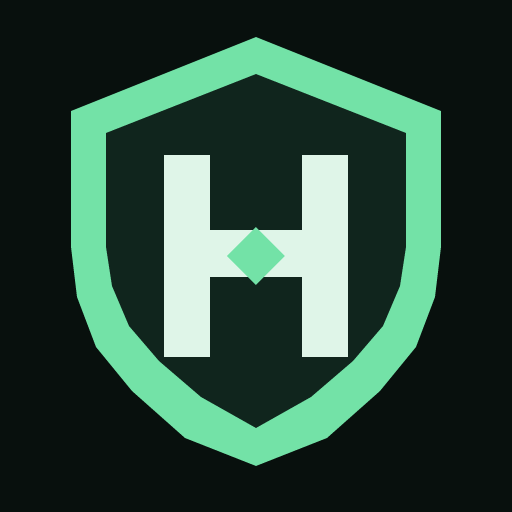
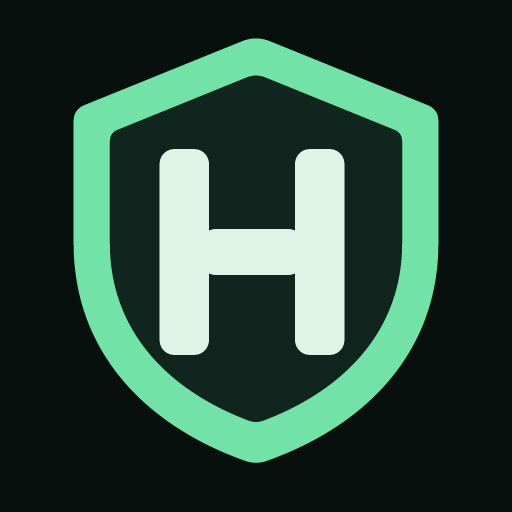
fix: smooth HAVEN brand geometry (#26)

diff --git a/web/src/icons.tsx b/web/src/icons.tsx
@@ -15,7 +15,7 @@ function SvgIcon({ children, className, size = 22 }: IconProps & { children: Rea
 
 export function HavenIcon(props: IconProps) {
   const { className, size = 22 } = props;
-  return <svg className={className} width={size} height={size} viewBox="0 0 24 24" aria-hidden="true" focusable="false"><path d="M12 1.75 20.65 5.2v6.4c0 5.2-3.45 8.55-8.65 10.25C6.8 20.15 3.35 16.8 3.35 11.6V5.2L12 1.75Z" fill="#73e2a7" /><path d="M12 3.45 19.05 6.25v5.35c0 4.2-2.7 6.95-7.05 8.48-4.35-1.53-7.05-4.28-7.05-8.48V6.25L12 3.45Z" fill="#10251d" /><path d="M7.7 7.25h2.15v3.55h4.3V7.25h2.15v9.5h-2.15V13h-4.3v3.75H7.7v-9.5Z" fill="#dff5e8" /><path d="m12 10.65 1.35 1.35L12 13.35 10.65 12 12 10.65Z" fill="#73e2a7" /></svg>;
+  return <svg className={className} width={size} height={size} viewBox="0 0 24 24" aria-hidden="true" focusable="false"><path d="M11.35 1.93Q12 1.67 12.65 1.93l7.38 2.99q.52.21.52.77v5.72c0 4.83-3.08 8.41-8 10.18q-.55.2-1.1 0c-4.92-1.77-8-5.35-8-10.18V5.69q0-.56.52-.77l7.38-2.99Z" fill="#73e2a7" /><path d="M11.56 3.63q.44-.18.88 0l6.04 2.45q.37.15.37.55v4.78c0 3.83-2.4 6.74-6.48 8.3q-.37.14-.74 0c-4.08-1.56-6.48-4.47-6.48-8.3V6.63q0-.4.37-.55l6.04-2.45Z" fill="#10251d" /><rect x="7.6" y="7.1" width="2.35" height="9.8" rx="0.7" fill="#dff5e8" /><rect x="14.05" y="7.1" width="2.35" height="9.8" rx="0.7" fill="#dff5e8" /><rect x="9.25" y="10.9" width="5.5" height="2.2" rx="1.1" fill="#dff5e8" /></svg>;
 }
 
 export function DefenderIcon(props: IconProps) {

diff --git a/web/src/pwa-contract.test.ts b/web/src/pwa-contract.test.ts
@@ -23,15 +23,19 @@ describe("installable application contract", () => {
 	});
 
 	it("keeps the normal mark transparent and isolates the opaque maskable tile", () => {
-		expect(standardIcon).not.toContain("<rect");
+		expect(standardIcon).not.toContain('<rect width="24" height="24"');
 		expect(standardIcon).toContain('fill="#10251d"');
 		expect(maskableIcon).toContain('<rect width="24" height="24" fill="#08100d"/>');
 		const canonicalPaths = Array.from(standardIcon.matchAll(/<path d="([^"]+)"/g), (match) => match[1]);
 		const maskablePaths = Array.from(maskableIcon.matchAll(/<path d="([^"]+)"/g), (match) => match[1]);
-		expect(canonicalPaths).toHaveLength(4);
+		const canonicalRects = Array.from(standardIcon.matchAll(/<rect ([^>]+?)\/>/g), (match) => match[1]);
+		const maskableRects = Array.from(maskableIcon.matchAll(/<rect ([^>]+?)\/>/g), (match) => match[1]).slice(1);
+		expect(canonicalPaths).toHaveLength(2);
+		expect(canonicalRects).toHaveLength(3);
 		expect(maskablePaths).toEqual(canonicalPaths);
+		expect(maskableRects).toEqual(canonicalRects);
 		for (const path of canonicalPaths) expect(iconComponents).toContain(`d="${path}"`);
-		expect(standardIcon).toContain('d="m12 10.65 1.35 1.35L12 13.35 10.65 12 12 10.65Z" fill="#73e2a7"');
+		for (const rectangle of canonicalRects) expect(iconComponents).toContain(rectangle);
 	});
 
 	it("advertises the manifest without adding an authenticated-page cache", () => {

diff --git a/web/src/account-notebook.test.tsx b/web/src/account-notebook.test.tsx
@@ -98,7 +98,7 @@ describe("account security notebook", () => {
 	});
 
 	it("keeps official provider navigation outside the isolated Electron client", () => {
-		vi.spyOn(navigator, "userAgent", "get").mockReturnValue("Mozilla/5.0 HAVEN-Desktop/0.25.2 Electron");
+		vi.spyOn(navigator, "userAgent", "get").mockReturnValue("Mozilla/5.0 HAVEN-Desktop/0.25.3 Electron");
 		render(<AccountNotebook profiles={[profile({ sessionStatus: "recognized", sessionChecks: ["devices"] })]} demoMode={false} unlocked busy={false} unlock={vi.fn()} lock={vi.fn()} save={vi.fn()} remove={vi.fn()} />);
 		expect(screen.queryByRole("link", { name: /Review at Google/ })).not.toBeInTheDocument();
 		expect(screen.getByText(/Desktop isolation blocks external navigation/)).toBeInTheDocument();

diff --git a/web/src/desktop-install.test.tsx b/web/src/desktop-install.test.tsx
@@ -23,11 +23,11 @@ describe("desktop installation", () => {
 	});
 
 	it("recognizes the bounded native desktop user-agent marker", () => {
-		userAgent.mockReturnValue("Mozilla/5.0 HAVEN-Desktop/0.25.2 Electron");
-		expect(nativeDesktopVersion()).toBe("0.25.2");
+		userAgent.mockReturnValue("Mozilla/5.0 HAVEN-Desktop/0.25.3 Electron");
+		expect(nativeDesktopVersion()).toBe("0.25.3");
 		expect(isStandaloneApp()).toBe(true);
 		const { result } = renderHook(() => useDesktopInstall());
-		expect(result.current).toMatchObject({ status: "native", nativeVersion: "0.25.2" });
+		expect(result.current).toMatchObject({ status: "native", nativeVersion: "0.25.3" });
 	});
 
 	it("captures one browser install prompt and records acceptance", async () => {

diff --git a/web/src/desktop-shell-contract.test.ts b/web/src/desktop-shell-contract.test.ts
@@ -25,7 +25,7 @@ describe("native desktop shell contract", () => {
 	});
 
 	it("pins dependencies and hardens the packaged desktop boundary", () => {
-		expect(manifest.version).toBe("0.25.2");
+		expect(manifest.version).toBe("0.25.3");
 		expect(manifest.build.files).toContain("build/origin.cjs");
 		expect(manifest.build.files).toContain("build/icon.ico");
 		expect(shell).toContain('path.join(__dirname, "build", "icon.ico")');

diff --git a/web/src/App.test.tsx b/web/src/App.test.tsx
@@ -59,7 +59,7 @@ const fixtures = vi.hoisted(() => {
 		schemaVersion: 1,
 		kind: "hub",
 		status: "ready",
-		version: "0.25.2",
+		version: "0.25.3",
 		revision: "test-revision",
 		generatedAt: "2026-09-05T08:00:00Z",
 		summary: { passing: 2, advisory: 0, failed: 0 },

diff --git a/scripts/generate-app-icons.go b/scripts/generate-app-icons.go
@@ -22,26 +22,8 @@ type renderOptions struct {
 	scale float64
 }
 
-var outerShield = []point{
-	{256, 37}, {441, 111}, {441, 247}, {435, 297}, {416, 347}, {380, 391},
-	{327, 438}, {256, 466}, {185, 438}, {132, 391}, {96, 347}, {77, 297},
-	{71, 247}, {71, 111},
-}
-
-var innerShield = []point{
-	{256, 74}, {406, 133}, {406, 247}, {400, 286}, {383, 326}, {353, 361},
-	{311, 397}, {256, 428}, {201, 397}, {159, 361}, {129, 326}, {112, 286},
-	{106, 247}, {106, 133},
-}
-
-var watchtower = []point{
-	{164, 155}, {210, 155}, {210, 230}, {302, 230}, {302, 155}, {348, 155},
-	{348, 357}, {302, 357}, {302, 277}, {210, 277}, {210, 357}, {164, 357},
-}
-
-var beacon = []point{
-	{256, 227}, {285, 256}, {256, 285}, {227, 256},
-}
+var outerShield = smoothOuterShield()
+var innerShield = smoothInnerShield()
 
 func main() {
 	check := flag.Bool("check", false, "verify committed icons match the deterministic generator")
@@ -118,11 +100,10 @@ func render(size int, options renderOptions) *image.NRGBA {
 					if insidePolygon(point{px, py}, innerShield) {
 						shade = shieldFill
 					}
-					if insidePolygon(point{px, py}, watchtower) {
+					if insideRoundedRect(point{px, py}, 7.6, 7.1, 2.35, 9.8, .7) ||
+						insideRoundedRect(point{px, py}, 14.05, 7.1, 2.35, 9.8, .7) ||
+						insideRoundedRect(point{px, py}, 9.25, 10.9, 5.5, 2.2, 1.1) {
 						shade = pale
-					}
-					if insidePolygon(point{px, py}, beacon) {
-						shade = green
 					}
 					premultiplied[0] += int(shade.R) * int(shade.A)
 					premultiplied[1] += int(shade.G) * int(shade.A)
@@ -201,4 +182,77 @@ func insidePolygon(value point, polygon []point) bool {
 		}
 	}
 	return inside
+}
+
+func iconPoint(x, y float64) point {
+	return point{x * 512 / 24, y * 512 / 24}
+}
+
+func appendQuadratic(values []point, control, end point) []point {
+	start := values[len(values)-1]
+	for step := 1; step <= 24; step++ {
+		t := float64(step) / 24
+		inverse := 1 - t
+		values = append(values, point{
+			x: inverse*inverse*start.x + 2*inverse*t*control.x + t*t*end.x,
+			y: inverse*inverse*start.y + 2*inverse*t*control.y + t*t*end.y,
+		})
+	}
+	return values
+}
+
+func appendCubic(values []point, firstControl, secondControl, end point) []point {
+	start := values[len(values)-1]
+	for step := 1; step <= 48; step++ {
+		t := float64(step) / 48
+		inverse := 1 - t
+		values = append(values, point{
+			x: inverse*inverse*inverse*start.x + 3*inverse*inverse*t*firstControl.x + 3*inverse*t*t*secondControl.x + t*t*t*end.x,
+			y: inverse*inverse*inverse*start.y + 3*inverse*inverse*t*firstControl.y + 3*inverse*t*t*secondControl.y + t*t*t*end.y,
+		})
+	}
+	return values
+}
+
+func smoothOuterShield() []point {
+	values := []point{iconPoint(11.35, 1.93)}
+	values = appendQuadratic(values, iconPoint(12, 1.67), iconPoint(12.65, 1.93))
+	values = append(values, iconPoint(20.03, 4.92))
+	values = appendQuadratic(values, iconPoint(20.55, 5.13), iconPoint(20.55, 5.69))
+	values = append(values, iconPoint(20.55, 11.41))
+	values = appendCubic(values, iconPoint(20.55, 16.24), iconPoint(17.47, 19.82), iconPoint(12.55, 21.59))
+	values = appendQuadratic(values, iconPoint(12, 21.79), iconPoint(11.45, 21.59))
+	values = appendCubic(values, iconPoint(6.53, 19.82), iconPoint(3.45, 16.24), iconPoint(3.45, 11.41))
+	values = append(values, iconPoint(3.45, 5.69))
+	values = appendQuadratic(values, iconPoint(3.45, 5.13), iconPoint(3.97, 4.92))
+	return append(values, iconPoint(11.35, 1.93))
+}
+
+func smoothInnerShield() []point {
+	values := []point{iconPoint(11.56, 3.63)}
+	values = appendQuadratic(values, iconPoint(12, 3.45), iconPoint(12.44, 3.63))
+	values = append(values, iconPoint(18.48, 6.08))
+	values = appendQuadratic(values, iconPoint(18.85, 6.23), iconPoint(18.85, 6.63))
+	values = append(values, iconPoint(18.85, 11.41))
+	values = appendCubic(values, iconPoint(18.85, 15.24), iconPoint(16.45, 18.15), iconPoint(12.37, 19.71))
+	values = appendQuadratic(values, iconPoint(12, 19.85), iconPoint(11.63, 19.71))
+	values = appendCubic(values, iconPoint(7.55, 18.15), iconPoint(5.15, 15.24), iconPoint(5.15, 11.41))
+	values = append(values, iconPoint(5.15, 6.63))
+	values = appendQuadratic(values, iconPoint(5.15, 6.23), iconPoint(5.52, 6.08))
+	return append(values, iconPoint(11.56, 3.63))
+}
+
+func insideRoundedRect(value point, x, y, width, height, radius float64) bool {
+	x *= 512 / 24
+	y *= 512 / 24
+	width *= 512 / 24
+	height *= 512 / 24
+	radius *= 512 / 24
+	if value.x < x || value.x > x+width || value.y < y || value.y > y+height {
+		return false
+	}
+	nearestX := max(x+radius, min(value.x, x+width-radius))
+	nearestY := max(y+radius, min(value.y, y+height-radius))
+	dx, dy := value.x-nearestX, value.y-nearestY
+	return dx*dx+dy*dy <= radius*radius
 }

diff --git a/internal/webui/brand_assets_test.go b/internal/webui/brand_assets_test.go
@@ -134,22 +134,22 @@ func TestBrandAssetsPreservePurposeSpecificTransparency(t *testing.T) {
 			t.Fatalf("Windows icon entry %d occupies only %d of %d pixels", index, visibleWidth(value), size)
 		}
 		center := nrgbaAt(value, size/2, size/2)
-		if center.A < 0xf0 || center.G <= center.R || center.G <= center.B {
-			t.Fatalf("Windows icon entry %d lost its central beacon: %#v", index, center)
+		if center.A < 0xf0 || center.R < 0xa0 || center.G < 0xb0 || center.B < 0xa0 || center.G <= center.R || center.G <= center.B {
+			t.Fatalf("Windows icon entry %d lost its rounded monogram bridge: %#v", index, center)
 		}
 	}
 }
 
-func TestCanonicalBrandMarkRetainsWatchtowerAndBeaconPalette(t *testing.T) {
+func TestCanonicalBrandMarkRetainsSmoothShieldAndMonogramPalette(t *testing.T) {
 	standard, _ := readBrandPNG(t, "..", "..", "web", "public", "haven-app-icon-512.png")
 	want := map[string]struct {
-		x, y int
+		x, y  int
 		color color.NRGBA
 	}{
-		"shield border": {256, 48, color.NRGBA{R: 115, G: 226, B: 167, A: 255}},
-		"shield field":  {256, 104, color.NRGBA{R: 16, G: 37, B: 29, A: 255}},
-		"watchtower":    {180, 180, color.NRGBA{R: 223, G: 245, B: 232, A: 255}},
-		"beacon":         {256, 256, color.NRGBA{R: 115, G: 226, B: 167, A: 255}},
+		"shield border":   {256, 48, color.NRGBA{R: 115, G: 226, B: 167, A: 255}},
+		"shield field":    {256, 104, color.NRGBA{R: 16, G: 37, B: 29, A: 255}},
+		"rounded upright": {180, 180, color.NRGBA{R: 223, G: 245, B: 232, A: 255}},
+		"monogram bridge": {256, 256, color.NRGBA{R: 223, G: 245, B: 232, A: 255}},
 	}
 	for label, sample := range want {
 		if got := nrgbaAt(standard, sample.x, sample.y); got != sample.color {

diff --git a/internal/buildinfo/buildinfo.go b/internal/buildinfo/buildinfo.go
@@ -2,7 +2,7 @@
 // command binaries. Revision is replaced by release builds with -ldflags.
 package buildinfo
 
-const Version = "0.25.2"
+const Version = "0.25.3"
 
 var Revision = "development"
 

diff --git a/README.md b/README.md
@@ -53,7 +53,7 @@ Read the [architecture](docs/ARCHITECTURE.md), [threat model](docs/THREAT_MODEL.
 
 The current implementation provides:
 
-- One canonical transparent watchtower-and-beacon mark shared by the dashboard, repository presentation, favicon, and native desktop package
+- One canonical transparent smooth shield-and-H mark shared by the dashboard, repository presentation, favicon, and native desktop package
 - Purpose-specific local icon assets: transparent standard marks, an opaque maskable application tile with safe cropping space, and a monochrome platform mark
 - Deterministic standard-library asset generation plus tests for transparency, maskability, manifest purpose, local-only delivery, and Windows-specific optical sizing
 - A native Windows icon containing dedicated 16–256px entries so the title bar remains legible while the taskbar mark uses its available canvas
@@ -411,7 +411,7 @@ Haven/
 
 ## 🛣 Milestone history and direction
 
-Milestone 0.25 consolidates HAVEN's visual identity into one transparent canonical mark with separate standard, maskable, monochrome, and native-desktop outputs. Patch 0.25.1 adds a fuller Windows-specific transparent mark and a true multi-resolution icon with optically strengthened small sizes for title-bar and taskbar rendering. Patch 0.25.2 replaces the generic thin-line monogram with HAVEN's architectural watchtower-and-beacon mark while retaining a deliberately simple small-icon silhouette. Deterministic generation and packaging tests keep those assets consistent without introducing remote image requests or tracking. Milestone 0.24 turns the portability model into a calm operational workspace: authenticated hub diagnostics, read-only hub and agent doctor commands, certificate and state validation, a redacted recovery map, and explicit install/repair/re-enrollment guidance. It neither adds a repair control nor exports private configuration. Milestone 0.23 removes household-specific runtime guesses, records the complete portability boundary, makes the Electron origin safely selectable at build time, treats schema-compatible agents as healthy across release-number changes, and refines the product's visual hierarchy and repository presentation. It favors a documented clean reinitialization over an unsafe destructive restore rehearsal against the live hub. Milestone 0.22 adds a deterministic browser-hardening review that treats only explicit disabled or non-enforcing defenses, cookie-verification evidence, and meaningful extension changes as concrete review items. Cookie volume and ordinary logged-in sites cannot alter its result. Milestone 0.21 adds encrypted, persistent owner classifications for each currently observed Chrome profile/domain pair and a guided cleanup queue. Milestones 0.18–0.20 add privacy-bounded browser, extension, cookie-domain, session-protection, and provider-review evidence. Milestone 0.17 adds the constrained Electron client, and milestone 0.16 remains the browser-installed fallback.
+Milestone 0.25 consolidates HAVEN's visual identity into one transparent canonical mark with separate standard, maskable, monochrome, and native-desktop outputs. Patch 0.25.1 adds a fuller Windows-specific transparent mark and a true multi-resolution icon with optically strengthened small sizes for title-bar and taskbar rendering. Patch 0.25.2 replaces the generic thin-line monogram with a stronger architectural form; patch 0.25.3 removes its center accent and replaces the polygonal contour with a restrained rounded H and continuously curved shield. Deterministic generation and packaging tests keep those assets consistent without introducing remote image requests or tracking. Milestone 0.24 turns the portability model into a calm operational workspace: authenticated hub diagnostics, read-only hub and agent doctor commands, certificate and state validation, a redacted recovery map, and explicit install/repair/re-enrollment guidance. It neither adds a repair control nor exports private configuration. Milestone 0.23 removes household-specific runtime guesses, records the complete portability boundary, makes the Electron origin safely selectable at build time, treats schema-compatible agents as healthy across release-number changes, and refines the product's visual hierarchy and repository presentation. It favors a documented clean reinitialization over an unsafe destructive restore rehearsal against the live hub. Milestone 0.22 adds a deterministic browser-hardening review that treats only explicit disabled or non-enforcing defenses, cookie-verification evidence, and meaningful extension changes as concrete review items. Cookie volume and ordinary logged-in sites cannot alter its result. Milestone 0.21 adds encrypted, persistent owner classifications for each currently observed Chrome profile/domain pair and a guided cleanup queue. Milestones 0.18–0.20 add privacy-bounded browser, extension, cookie-domain, session-protection, and provider-review evidence. Milestone 0.17 adds the constrained Electron client, and milestone 0.16 remains the browser-installed fallback.
 
 Milestone 0.7 adds native Linux monitoring and boot-persistent endpoint-agent scheduling. Milestone 0.7.1 makes its network results explainable, 0.7.2 makes report freshness and finding lifecycles explicit, and 0.7.3 correlates host listeners with sanitized Docker port mappings. Milestone 0.7.4 adds deliberate suggested-baseline review; 0.7.5 adds live systemd ownership and service-constrained expectations for Linux listeners. Milestone 0.8 combines the latest authenticated reports into a network-wide coverage, change, and live-relationship view while keeping merely observed private endpoints separate from explicitly enrolled devices. Milestone 0.9 turns current findings, server-classified stale agents, incomplete enrollments, new non-local listeners, and changed service attribution into explainable active alerts. Milestone 0.10 moves that derivation to the hub and adds opt-in, encrypted, durable Web Push delivery with bounded retries and per-destination receipts; its expectation model also supports owner-constrained dynamic ranges and expiring development approvals. Milestone 0.11 adds reproducible console-free Windows scheduled-task packaging and credential-free monitoring of explicitly configured private network appliances. Milestone 0.12 adds optional read-only NAS health through bounded SNMP plus a host-key-pinned, forced-command SSH helper. Milestone 0.13 reorganizes the console around stable routes and strengthens report delivery, freshness semantics, readiness, version evidence, rendered UI tests, and the public release pipeline. Milestone 0.14 adds authenticated reporter provenance, capability evidence, fleet lifecycle presentation, checksummed cross-platform artifacts, and safe install/repair/status/uninstall workflows while preserving older enrolled reporters. Milestone 0.15 adds an encrypted owner-reported account-security notebook with calm, evidence-derived authentication and recovery suggestions while explicitly excluding provider access and secret storage; 0.15.2 adds a separately reauthenticated private workspace, structured review facts, and local platform branding. A later event-driven Windows sensor may move under Service Control Manager only when real-time Defender and Windows Event Log monitoring justify an always-running process; it must remain outbound-only and use the least privilege its collectors require. HAVEN does not scan the LAN, retain remote endpoints, or claim that an alert proves compromise. See [verification](docs/VERIFICATION.md) for the claim-to-test map. The Ubuntu hub does not execute Windows actions on another machine. GitHub Actions verifies the Go, frontend, desktop, dependency, concurrency, vulnerability, Windows process isolation, agent artifacts, image, static analysis, and public-repository safety checks on each proposed change.
 

diff --git a/docs/THREAT_MODEL.md b/docs/THREAT_MODEL.md
@@ -14,7 +14,7 @@ HAVEN must not store passwords, cookie names or values, session tokens, authenti
 
 ## Current boundary
 
-Milestone 0.25 performs continuous collection, explainable baseline evaluation, privacy-bounded browser and extension exposure inventory, live Chrome domain-level cookie metadata review, encrypted owner curation of observed profile/domain pairs, a deterministic browser-hardening review, endpoint-local extension-change detection, bounded Chrome session-protection evidence, finding and listener transition tracking, authenticated device reporting, owner-reviewed expected-service classification, explicit report freshness/lifecycle presentation, hub-owned fact-based active-alert derivation, opt-in encrypted Web Push delivery, live Docker workload and Linux systemd-unit attribution, a derived network-wide overview, an authenticated local action boundary, an encrypted owner-reported account-security and provider-session-review notebook, same-origin browser-managed application installation, a hardened Electron desktop client, and privacy-bounded operational diagnostics. Its canonical watchtower-and-beacon mark and purpose-specific icon variants are static local assets and make no third-party request. Product source, private deployment configuration, and private state are explicit separate recovery layers. Diagnostics expose only generic check conclusions and redacted recovery steps: they omit paths, hostnames, addresses, device identities, certificate contents, account details, and secrets. Doctor commands are read-only and do not repair, enroll, rotate trust, migrate an offline database, or contact a provider. The hardening review cannot treat cookie volume, cookie domains, inferred sign-in state, or remaining logged in as a failure; those facts never enter its deterministic projection. Higher extension access remains a one-time inventory prompt rather than a malware verdict or background alert. The overview distinguishes enrolled devices from observed-only private endpoints and grouped Internet relationships. It uses only the latest live connection and browser reports, performs no active discovery, and persists no remote endpoint, relationship, or routine browser inventory history. Suggested service-baseline entries are derived only from bounded platform roles and the current live observation; nothing is classified until the owner approves it. Alerts are review prompts based on current evidence, not intrusion verdicts or Internet-reachability claims. On Windows, the collector launches one fixed, internally defined PowerShell script with no user-controlled commands or parameters. The two available controls also select fixed internal PowerShell commands for a Defender quick scan or security-intelligence update; browser text is never interpolated into them.
+Milestone 0.25 performs continuous collection, explainable baseline evaluation, privacy-bounded browser and extension exposure inventory, live Chrome domain-level cookie metadata review, encrypted owner curation of observed profile/domain pairs, a deterministic browser-hardening review, endpoint-local extension-change detection, bounded Chrome session-protection evidence, finding and listener transition tracking, authenticated device reporting, owner-reviewed expected-service classification, explicit report freshness/lifecycle presentation, hub-owned fact-based active-alert derivation, opt-in encrypted Web Push delivery, live Docker workload and Linux systemd-unit attribution, a derived network-wide overview, an authenticated local action boundary, an encrypted owner-reported account-security and provider-session-review notebook, same-origin browser-managed application installation, a hardened Electron desktop client, and privacy-bounded operational diagnostics. Its canonical smooth shield-and-H mark and purpose-specific icon variants are static local assets and make no third-party request. Product source, private deployment configuration, and private state are explicit separate recovery layers. Diagnostics expose only generic check conclusions and redacted recovery steps: they omit paths, hostnames, addresses, device identities, certificate contents, account details, and secrets. Doctor commands are read-only and do not repair, enroll, rotate trust, migrate an offline database, or contact a provider. The hardening review cannot treat cookie volume, cookie domains, inferred sign-in state, or remaining logged in as a failure; those facts never enter its deterministic projection. Higher extension access remains a one-time inventory prompt rather than a malware verdict or background alert. The overview distinguishes enrolled devices from observed-only private endpoints and grouped Internet relationships. It uses only the latest live connection and browser reports, performs no active discovery, and persists no remote endpoint, relationship, or routine browser inventory history. Suggested service-baseline entries are derived only from bounded platform roles and the current live observation; nothing is classified until the owner approves it. Alerts are review prompts based on current evidence, not intrusion verdicts or Internet-reachability claims. On Windows, the collector launches one fixed, internally defined PowerShell script with no user-controlled commands or parameters. The two available controls also select fixed internal PowerShell commands for a Defender quick scan or security-intelligence update; browser text is never interpolated into them.
 
 The owner registers one or more discoverable passkeys through the cross-platform WebAuthn standard. Windows Hello, platform biometric providers, synchronized phone passkeys, and hardware security keys are authenticator choices rather than HAVEN dependencies. The first passkey requires a one-time local CLI code; the same short-lived mechanism provides local recovery. A signed-in owner can add or remove passkeys, but cannot remove the final credential without a replacement.
 

diff --git a/docs/ARCHITECTURE.md b/docs/ARCHITECTURE.md
@@ -37,7 +37,7 @@ PostgreSQL becomes appropriate if HAVEN needs multiple hub writers, multiple hub
 
 ## Current milestone boundary
 
-Milestone 0.25 gives every application surface one canonical transparent brand geometry while retaining separate standard, maskable, monochrome, and desktop packaging outputs. Patch 0.25.1 adds purpose-specific Windows optical sizing and a PNG-backed multi-resolution ICO rather than asking Windows to derive tiny chrome from one large raster. Patch 0.25.2 evolves the mark into a solid architectural H inside a protected shield, with a central beacon that represents observation without adding small-icon noise. The assets remain local, deterministic, and presentation-only: they add no network request, runtime privilege, state, or trust boundary. Milestone 0.24 adds an authenticated operational-diagnostics projection and matching read-only hub/agent doctor commands. It turns the 0.23 product/deployment/state portability boundary into an actionable recovery map while retaining the deterministic browser-hardening review, encrypted browser-site curation, live-only browser evidence boundary, installable-web fallback, private account-security notebook, routed console, reliability guardrails, and bounded read-only NAS health evidence:
+Milestone 0.25 gives every application surface one canonical transparent brand geometry while retaining separate standard, maskable, monochrome, and desktop packaging outputs. Patch 0.25.1 adds purpose-specific Windows optical sizing and a PNG-backed multi-resolution ICO rather than asking Windows to derive tiny chrome from one large raster. Patch 0.25.3 settles the mark on a rounded H inside a continuously curved protective shield, without a center ornament that competes with the monogram. The assets remain local, deterministic, and presentation-only: they add no network request, runtime privilege, state, or trust boundary. Milestone 0.24 adds an authenticated operational-diagnostics projection and matching read-only hub/agent doctor commands. It turns the 0.23 product/deployment/state portability boundary into an actionable recovery map while retaining the deterministic browser-hardening review, encrypted browser-site curation, live-only browser evidence boundary, installable-web fallback, private account-security notebook, routed console, reliability guardrails, and bounded read-only NAS health evidence:
 
 - Diagnostics are a bounded projection of local evidence. They can state that a file set, database readiness probe, HTTPS origin, certificate chain, installation kind, or accepted-report sequence was verified; they never serialize the underlying path, address, device identity, certificate, account data, or secret.
 - `haven-hub doctor` opens no database, applies no migration, creates no directory, and performs no repair. The running hub uses its already-open store for the stronger database readiness result exposed through the authenticated, non-cacheable `/api/diagnostics` route.
